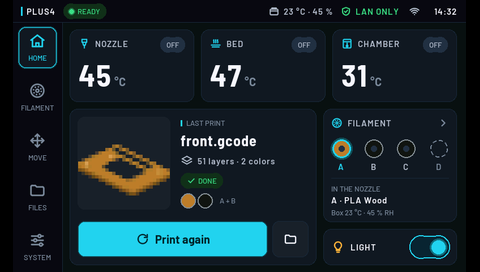
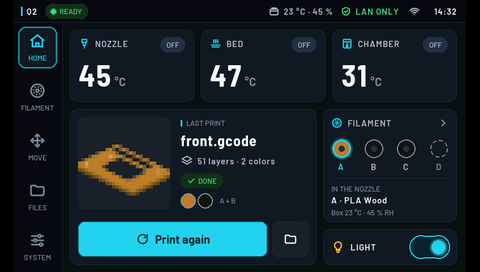
qbdisplay_q2: Q2 name in previews, update check points to QIDI_Q2
Claude-Session: https://claude.ai/code/session_01HkGJTnPmxP26LtqpdXeY9P

Changed region(s): [[0.0312, 0.0, 0.2188, 0.0882]]

diff --git a/tools/qbdisplay_q2/files/q2main.py b/tools/qbdisplay_q2/files/q2main.py
@@ -28,6 +28,11 @@ from .app import App, subscribe_objects
 from .config import Config
 from .fbdisplay import FbDisplay
 from .moonraker import make_client
+from . import updates
+
+# Q2: look for QIDI Q2 firmware, not Plus4 (QIDI's version server path for the Q2 is unknown -> GitHub only)
+updates.QIDI_VERSION_URLS = ()
+updates.QIDI_GITHUB = 'QIDITECH/QIDI_Q2'
 
 log = logging.getLogger('qbdisplay')
 

diff --git a/tools/qbdisplay_q2/README.md b/tools/qbdisplay_q2/README.md
@@ -14,7 +14,7 @@ the Q2 has a plain 480×272 LCD (`/dev/fb0`) with a Goodix touch panel, drawn by
 
 Preview at the Q2's real resolution (480×272):
 
-![home](preview-home.png) ![filament](preview-filament.png) ![move](preview-move.png)
+![home](preview-home.png) ![filament](preview-filament.png) ![print](preview-print.png) ![move](preview-move.png)
 
 **Nothing is flashed.** The service is not started at boot: after a reboot QIDI's screen is back. Starting it
 stops `qidi-client`; stopping it (or a crash) starts `qidi-client` again.
@@ -22,7 +22,7 @@ stops `qidi-client`; stopping it (or a crash) starts `qidi-client` again.
 While qbdisplay runs, QIDI's screen program is off: no AI camera pop-ups, no resume after power loss, no QIDI
 app/cloud, no plate calibration or updates from the screen, probably no automatic Box hot-plug handling.
 Printing, Klipper, Fluidd and macros are unaffected. Box commands come from the Plus4 2.1.1 profile and are
-**not verified on the Q2 yet**. "Check for updates" in qbdisplay looks for Plus4 firmware – ignore it.
+**not verified on the Q2 yet**. The printer name shows "Q2"; "Check for updates" looks for QIDI Q2 releases on GitHub (QIDITECH/QIDI_Q2); the "To QIDI" button on the display does not work here – use `stop`.
 
 Status: 🟡 tested in a simulator (render, framebuffer output, touch mapping, installer). Not yet on a printer.
 
@@ -65,7 +65,7 @@ Podgląd w prawdziwej rozdzielczości Q2 – obrazki wyżej.
 Gdy działa qbdisplay, program ekranu QIDI jest wyłączony: brak okienek kamery AI, wznawiania po zaniku prądu,
 aplikacji/chmury QIDI, kalibracji płyty i aktualizacji z ekranu, prawdopodobnie też automatycznej obsługi
 odłączenia Boxa. Druk, Klipper, Fluidd i makra działają normalnie. Polecenia Boxa pochodzą z profilu Plus4 2.1.1 i
-**nie są jeszcze sprawdzone na Q2**. „Sprawdzanie aktualizacji” w qbdisplay szuka firmware Plus4 – pomiń.
+**nie są jeszcze sprawdzone na Q2**. Nazwa drukarki to „Q2”; sprawdzanie aktualizacji szuka wydań QIDI Q2 na GitHubie (QIDITECH/QIDI_Q2); przycisk „To QIDI” na ekranie tu nie działa – użyj `stop`.
 
 Status: 🟡 sprawdzone w symulatorze (rysowanie, zapis do framebuffera, przeliczanie dotyku, instalator).
 Jeszcze nie na drukarce.
